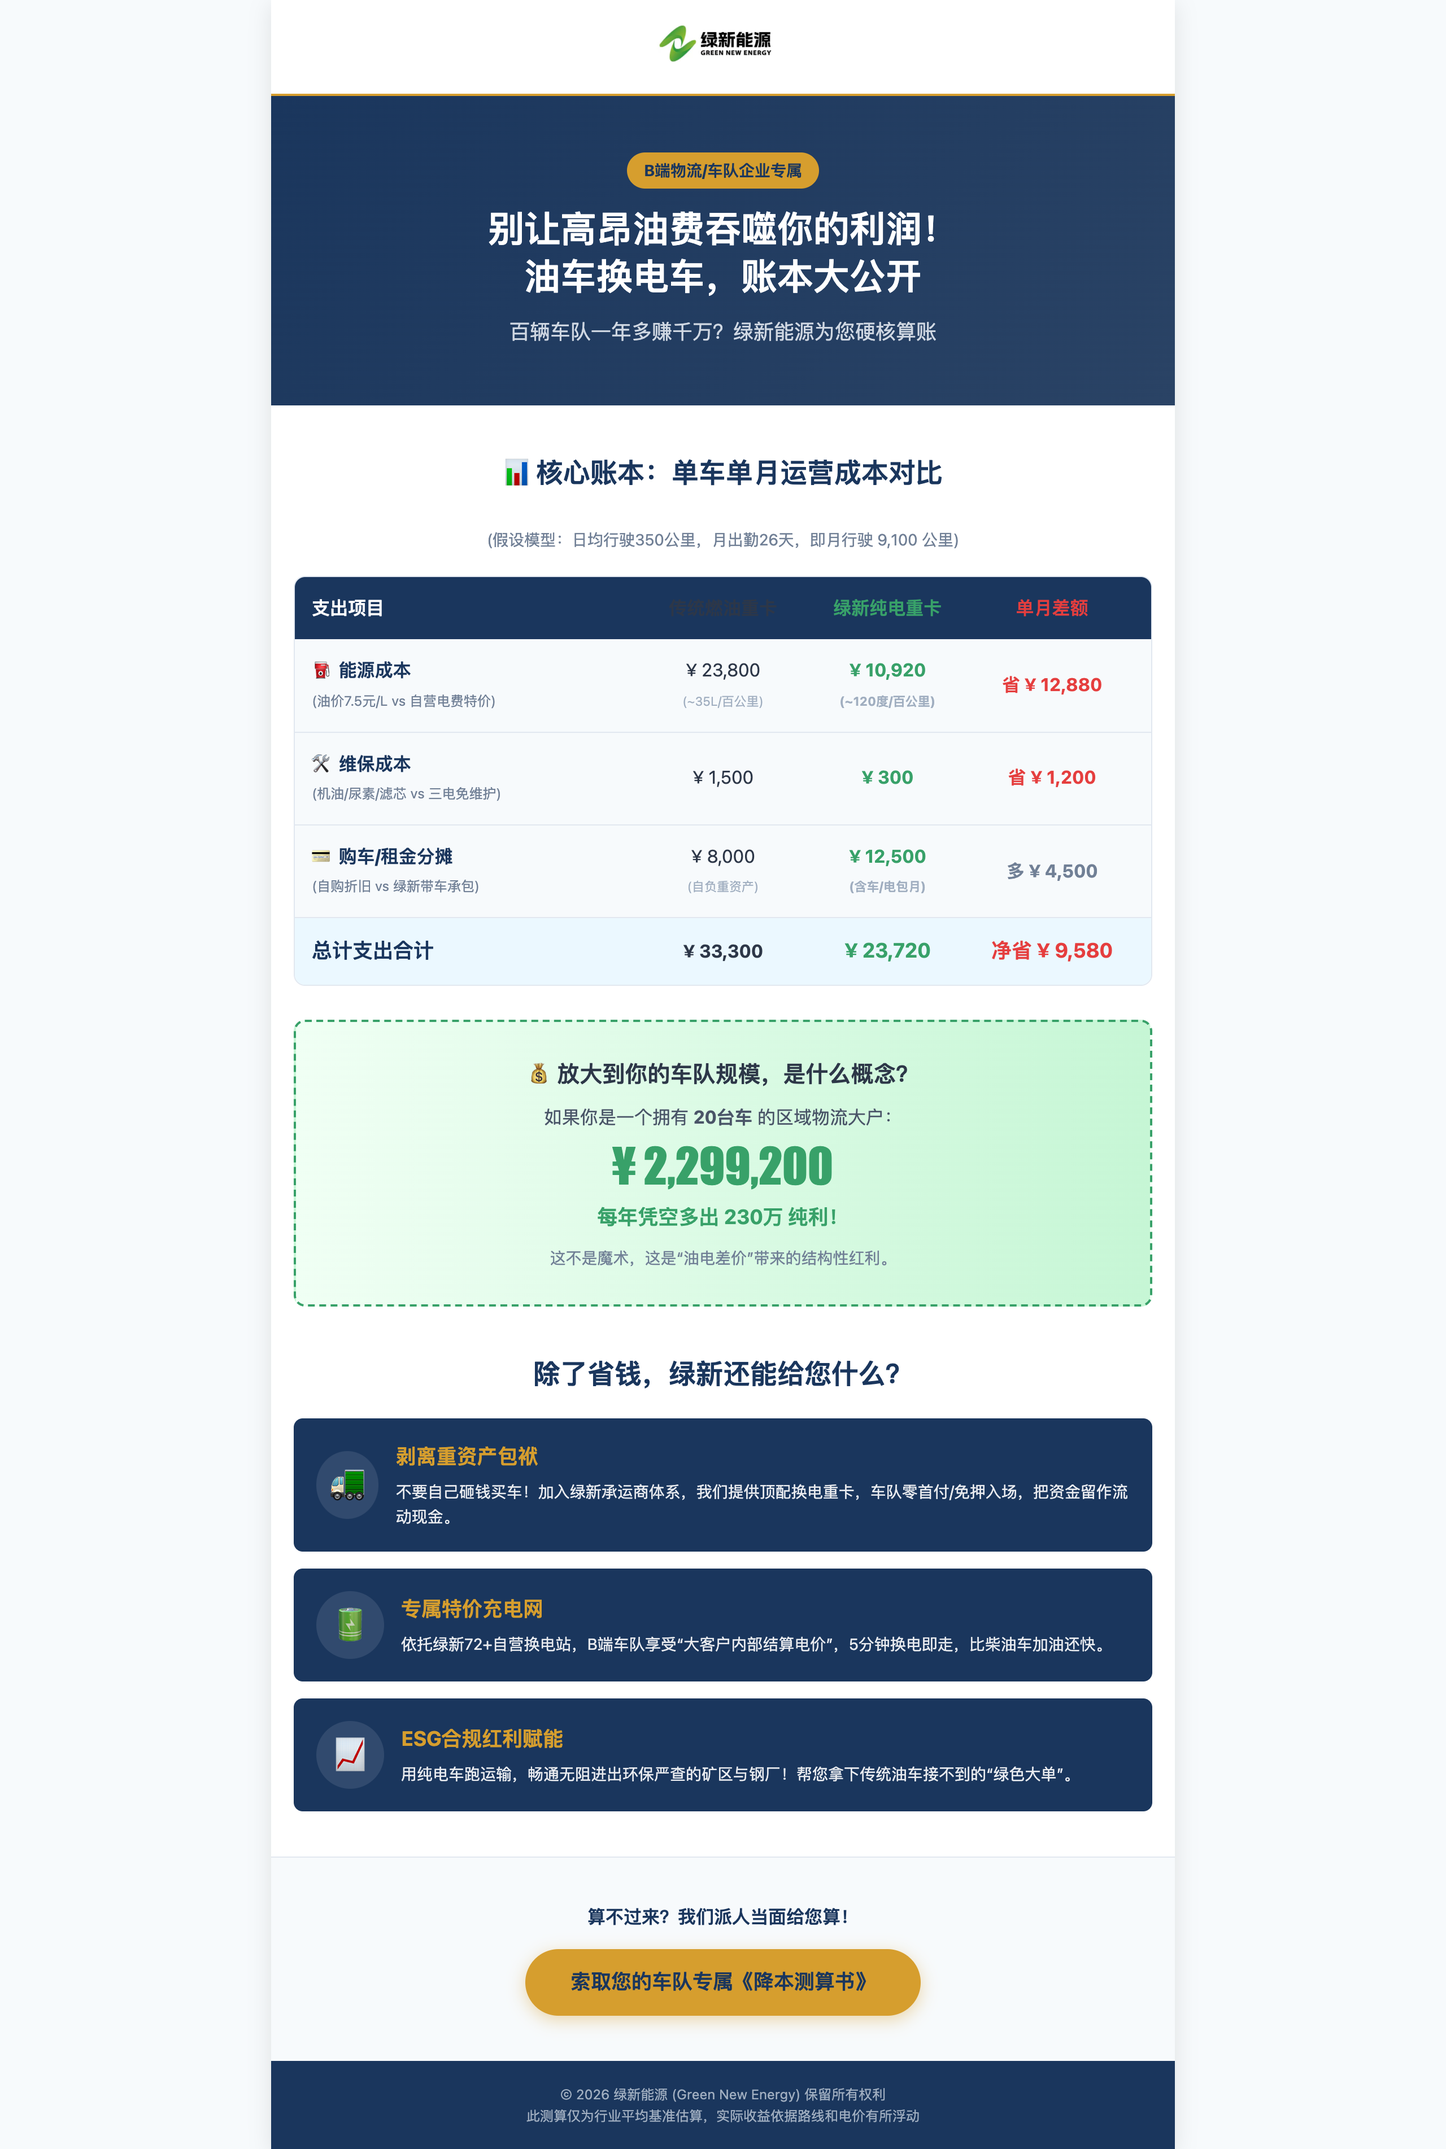
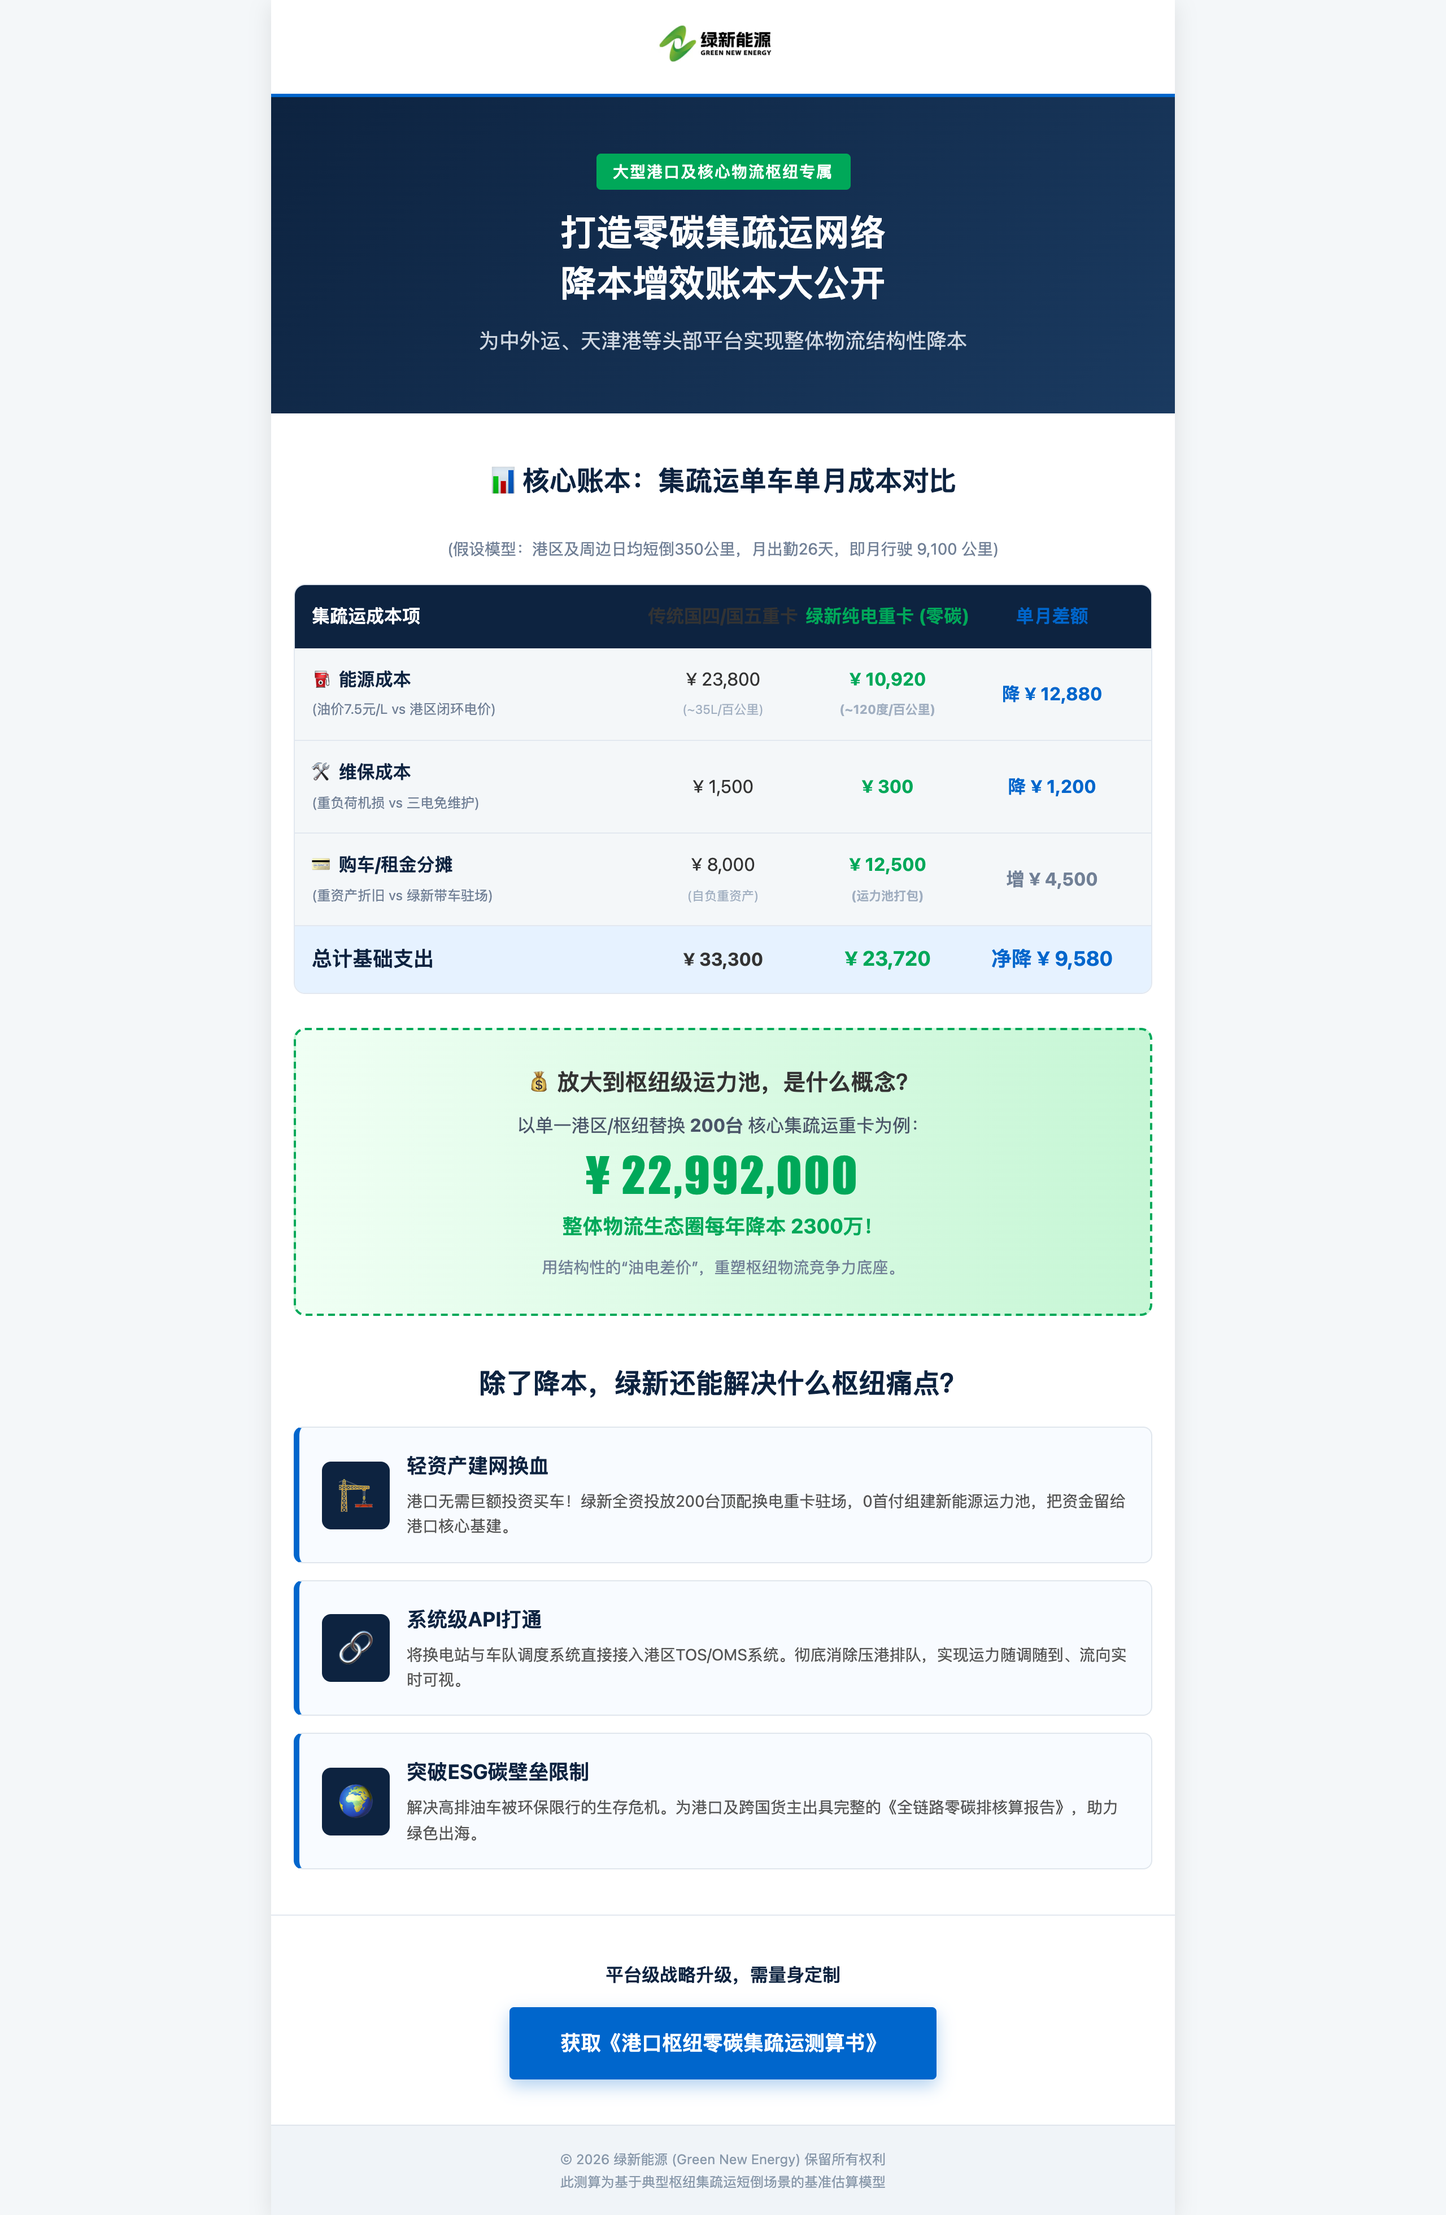
Update calculation poster to target Hubs and Ports (200 trucks scale)

diff --git a/partner_b2b_calc.html b/partner_b2b_calc.html
@@ -3,15 +3,15 @@
 <head>
     <meta charset="UTF-8">
     <meta name="viewport" content="width=device-width, initial-scale=1.0, maximum-scale=1.0, user-scalable=no">
-    <title>绿新能源 (GNE) - B端车队专属算账海报</title>
+    <title>绿新能源 (GNE) - 枢纽港口集疏运测算海报</title>
     <style>
         :root {
-            --primary-navy: #1a365d;
-            --accent-gold: #d69e2e;
-            --accent-green: #38a169;
+            --primary-navy: #0d2340;
+            --accent-gold: #0066cc;
+            --accent-green: #00a859;
             --accent-red: #e53e3e;
-            --bg-light: #f7fafc;
-            --text-main: #2d3748;
+            --bg-light: #f4f7f9;
+            --text-main: #333333;
             --white: #ffffff;
         }
         
@@ -21,18 +21,18 @@
         .container { max-width: 800px; margin: 0 auto; background: var(--white); box-shadow: 0 4px 20px rgba(0,0,0,0.1); overflow: hidden; }
         
         /* Header */
-        .header { background: var(--white); padding: 15px; text-align: center; border-bottom: 2px solid var(--accent-gold); }
+        .header { background: var(--white); padding: 15px; text-align: center; border-bottom: 3px solid var(--accent-gold); }
         .header img { max-height: 45px; }
         
         /* Hero */
         .hero { 
-            background: linear-gradient(135deg, var(--primary-navy) 0%, #2a4365 100%);
+            background: linear-gradient(135deg, var(--primary-navy) 0%, #1a3a60 100%);
             color: var(--white);
             padding: 50px 20px;
             text-align: center;
         }
-        .badge { display: inline-block; background: var(--accent-gold); color: var(--primary-navy); font-weight: bold; padding: 5px 15px; border-radius: 20px; margin-bottom: 15px; font-size: 14px; }
-        .hero h1 { font-size: 32px; margin-bottom: 15px; line-height: 1.3; }
+        .badge { display: inline-block; background: var(--accent-green); color: var(--white); font-weight: bold; padding: 5px 15px; border-radius: 4px; margin-bottom: 15px; font-size: 14px; letter-spacing: 1px;}
+        .hero h1 { font-size: 32px; margin-bottom: 15px; line-height: 1.4; font-weight: 800;}
         .hero p { font-size: 18px; opacity: 0.9; color: #e2e8f0; }
         
         /* Calc Section */
@@ -43,31 +43,31 @@
         .table-header { background: var(--primary-navy); color: var(--white); display: flex; padding: 15px; font-weight: bold; text-align: center; }
         .table-row { display: flex; padding: 15px; border-bottom: 1px solid #e2e8f0; text-align: center; align-items: center; }
         .table-row:last-child { border-bottom: none; }
-        .table-row.total { background: #ebf8ff; font-weight: bold; }
+        .table-row.total { background: #e6f2ff; font-weight: bold; }
         
         .col-item { flex: 2; text-align: left; font-weight: bold; color: var(--primary-navy); }
         .col-diesel { flex: 1; color: var(--text-main); }
         .col-ev { flex: 1; color: var(--accent-green); font-weight: bold; }
-        .col-diff { flex: 1; color: var(--accent-red); font-weight: bold; }
+        .col-diff { flex: 1; color: var(--accent-gold); font-weight: bold; }
         
         /* Visual Result */
         .result-box { background: linear-gradient(to right, #f0fff4, #c6f6d5); border: 2px dashed var(--accent-green); border-radius: 10px; padding: 30px 20px; text-align: center; margin-top: 30px; }
-        .result-box h3 { font-size: 20px; color: var(--text-main); margin-bottom: 10px; }
-        .big-number { font-size: 42px; color: var(--accent-green); font-weight: bold; line-height: 1; margin: 10px 0; font-family: Impact, sans-serif;}
+        .result-box h3 { font-size: 20px; color: var(--text-main); margin-bottom: 10px; font-weight: bold;}
+        .big-number { font-size: 42px; color: var(--accent-green); font-weight: bold; line-height: 1; margin: 10px 0; font-family: Impact, sans-serif; letter-spacing: 2px;}
         .result-desc { font-size: 16px; color: #4a5568; }
         
         /* Solution */
         .solution-grid { display: flex; flex-direction: column; gap: 15px; padding: 0 20px 40px; }
-        .sol-card { background: var(--primary-navy); color: white; padding: 20px; border-radius: 8px; display: flex; align-items: center; gap: 15px; }
-        .sol-icon { font-size: 30px; background: rgba(255,255,255,0.1); width: 60px; height: 60px; display: flex; align-items: center; justify-content: center; border-radius: 50%; }
-        .sol-text h4 { font-size: 18px; color: var(--accent-gold); margin-bottom: 5px; }
-        .sol-text p { font-size: 14px; opacity: 0.9; }
+        .sol-card { background: #f8fbff; border: 1px solid #e0e6ed; color: var(--text-main); padding: 20px; border-radius: 8px; display: flex; align-items: center; gap: 15px; border-left: 5px solid var(--accent-gold); }
+        .sol-icon { font-size: 30px; background: var(--primary-navy); color: white; width: 60px; height: 60px; display: flex; align-items: center; justify-content: center; border-radius: 8px; flex-shrink: 0; }
+        .sol-text h4 { font-size: 18px; color: var(--primary-navy); margin-bottom: 5px; font-weight: bold;}
+        .sol-text p { font-size: 14px; color: #555; }
         
         /* CTA */
-        .cta { text-align: center; padding: 40px 20px; background: var(--bg-light); border-top: 1px solid #e2e8f0; }
-        .btn { display: inline-block; background: var(--accent-gold); color: var(--primary-navy); text-decoration: none; padding: 15px 40px; border-radius: 30px; font-size: 18px; font-weight: bold; box-shadow: 0 4px 15px rgba(214,158,46,0.4); }
+        .cta { text-align: center; padding: 40px 20px; background: var(--white); border-top: 1px solid #e2e8f0; }
+        .btn { display: inline-block; background: var(--accent-gold); color: var(--white); text-decoration: none; padding: 18px 45px; border-radius: 4px; font-size: 18px; font-weight: bold; box-shadow: 0 6px 15px rgba(0,102,204,0.3); }
         
-        .footer { background: var(--primary-navy); color: #a0aec0; text-align: center; padding: 20px; font-size: 12px; }
+        .footer { background: #f0f4f8; color: #8898aa; text-align: center; padding: 20px; font-size: 12px; border-top: 1px solid #e0e6ed;}
     </style>
 </head>
 <body>
@@ -78,91 +78,91 @@
     </div>
     
     <div class="hero">
-        <span class="badge">B端物流/车队企业专属</span>
-        <h1>别让高昂油费吞噬你的利润！<br>油车换电车，账本大公开</h1>
-        <p>百辆车队一年多赚千万？绿新能源为您硬核算账</p>
+        <span class="badge">大型港口及核心物流枢纽专属</span>
+        <h1>打造零碳集疏运网络<br>降本增效账本大公开</h1>
+        <p>为中外运、天津港等头部平台实现整体物流结构性降本</p>
     </div>
     
     <div class="calc-section">
-        <h2 class="section-title">📊 核心账本：单车单月运营成本对比</h2>
-        <p style="text-align: center; margin-bottom: 20px; color: #718096; font-size: 14px;">(假设模型：日均行驶350公里，月出勤26天，即月行驶 9,100 公里)</p>
+        <h2 class="section-title">📊 核心账本：集疏运单车单月成本对比</h2>
+        <p style="text-align: center; margin-bottom: 20px; color: #718096; font-size: 14px;">(假设模型：港区及周边日均短倒350公里，月出勤26天，即月行驶 9,100 公里)</p>
         
         <div class="table-container">
             <div class="table-header">
-                <div class="col-item" style="color:white;">支出项目</div>
-                <div class="col-diesel">传统燃油重卡</div>
-                <div class="col-ev">绿新纯电重卡</div>
+                <div class="col-item" style="color:white;">集疏运成本项</div>
+                <div class="col-diesel">传统国四/国五重卡</div>
+                <div class="col-ev">绿新纯电重卡 (零碳)</div>
                 <div class="col-diff">单月差额</div>
             </div>
             <div class="table-row">
-                <div class="col-item">⛽ 能源成本<br><span style="font-size:12px; font-weight:normal; color:#718096;">(油价7.5元/L vs 自营电费特价)</span></div>
+                <div class="col-item">⛽ 能源成本<br><span style="font-size:12px; font-weight:normal; color:#718096;">(油价7.5元/L vs 港区闭环电价)</span></div>
                 <div class="col-diesel">¥ 23,800<br><span style="font-size:11px; color:#a0aec0;">(~35L/百公里)</span></div>
                 <div class="col-ev">¥ 10,920<br><span style="font-size:11px; color:#a0aec0;">(~120度/百公里)</span></div>
-                <div class="col-diff">省 ¥ 12,880</div>
+                <div class="col-diff">降 ¥ 12,880</div>
             </div>
             <div class="table-row">
-                <div class="col-item">🛠 维保成本<br><span style="font-size:12px; font-weight:normal; color:#718096;">(机油/尿素/滤芯 vs 三电免维护)</span></div>
+                <div class="col-item">🛠 维保成本<br><span style="font-size:12px; font-weight:normal; color:#718096;">(重负荷机损 vs 三电免维护)</span></div>
                 <div class="col-diesel">¥ 1,500</div>
                 <div class="col-ev">¥ 300</div>
-                <div class="col-diff">省 ¥ 1,200</div>
+                <div class="col-diff">降 ¥ 1,200</div>
             </div>
             <div class="table-row">
-                <div class="col-item">💳 购车/租金分摊<br><span style="font-size:12px; font-weight:normal; color:#718096;">(自购折旧 vs 绿新带车承包)</span></div>
+                <div class="col-item">💳 购车/租金分摊<br><span style="font-size:12px; font-weight:normal; color:#718096;">(重资产折旧 vs 绿新带车驻场)</span></div>
                 <div class="col-diesel">¥ 8,000<br><span style="font-size:11px; color:#a0aec0;">(自负重资产)</span></div>
-                <div class="col-ev">¥ 12,500<br><span style="font-size:11px; color:#a0aec0;">(含车/电包月)</span></div>
-                <div class="col-diff" style="color:#718096;">多 ¥ 4,500</div>
+                <div class="col-ev">¥ 12,500<br><span style="font-size:11px; color:#a0aec0;">(运力池打包)</span></div>
+                <div class="col-diff" style="color:#718096;">增 ¥ 4,500</div>
             </div>
             <div class="table-row total">
-                <div class="col-item" style="color:var(--primary-navy); font-size:18px;">总计支出合计</div>
+                <div class="col-item" style="color:var(--primary-navy); font-size:18px;">总计基础支出</div>
                 <div class="col-diesel" style="font-weight:bold;">¥ 33,300</div>
                 <div class="col-ev" style="font-size:18px;">¥ 23,720</div>
-                <div class="col-diff" style="font-size:18px;">净省 ¥ 9,580</div>
+                <div class="col-diff" style="font-size:18px;">净降 ¥ 9,580</div>
             </div>
         </div>
         
         <div class="result-box">
-            <h3>💰 放大到你的车队规模，是什么概念？</h3>
-            <p class="result-desc">如果你是一个拥有 <strong>20台车</strong> 的区域物流大户：</p>
-            <div class="big-number">¥ 2,299,200</div>
-            <p style="color: var(--accent-green); font-weight: bold; font-size: 18px;">每年凭空多出 230万 纯利！</p>
-            <p style="margin-top: 10px; font-size: 14px; color: #718096;">这不是魔术，这是“油电差价”带来的结构性红利。</p>
+            <h3>💰 放大到枢纽级运力池，是什么概念？</h3>
+            <p class="result-desc">以单一港区/枢纽替换 <strong>200台</strong> 核心集疏运重卡为例：</p>
+            <div class="big-number">¥ 22,992,000</div>
+            <p style="color: var(--accent-green); font-weight: bold; font-size: 18px;">整体物流生态圈每年降本 2300万！</p>
+            <p style="margin-top: 10px; font-size: 14px; color: #718096;">用结构性的“油电差价”，重塑枢纽物流竞争力底座。</p>
         </div>
     </div>
     
-    <h2 class="section-title" style="margin-bottom: 20px;">除了省钱，绿新还能给您什么？</h2>
+    <h2 class="section-title" style="margin-bottom: 20px;">除了降本，绿新还能解决什么枢纽痛点？</h2>
     
     <div class="solution-grid">
         <div class="sol-card">
-            <div class="sol-icon">🚛</div>
+            <div class="sol-icon">🏗</div>
             <div class="sol-text">
-                <h4>剥离重资产包袱</h4>
-                <p>不要自己砸钱买车！加入绿新承运商体系，我们提供顶配换电重卡，车队零首付/免押入场，把资金留作流动现金。</p>
+                <h4>轻资产建网换血</h4>
+                <p>港口无需巨额投资买车！绿新全资投放200台顶配换电重卡驻场，0首付组建新能源运力池，把资金留给港口核心基建。</p>
             </div>
         </div>
         <div class="sol-card">
-            <div class="sol-icon">🔋</div>
+            <div class="sol-icon">🔗</div>
             <div class="sol-text">
-                <h4>专属特价充电网</h4>
-                <p>依托绿新72+自营换电站，B端车队享受“大客户内部结算电价”，5分钟换电即走，比柴油车加油还快。</p>
+                <h4>系统级API打通</h4>
+                <p>将换电站与车队调度系统直接接入港区TOS/OMS系统。彻底消除压港排队，实现运力随调随到、流向实时可视。</p>
             </div>
         </div>
         <div class="sol-card">
-            <div class="sol-icon">📈</div>
+            <div class="sol-icon">🌍</div>
             <div class="sol-text">
-                <h4>ESG合规红利赋能</h4>
-                <p>用纯电车跑运输，畅通无阻进出环保严查的矿区与钢厂！帮您拿下传统油车接不到的“绿色大单”。</p>
+                <h4>突破ESG碳壁垒限制</h4>
+                <p>解决高排油车被环保限行的生存危机。为港口及跨国货主出具完整的《全链路零碳排核算报告》，助力绿色出海。</p>
             </div>
         </div>
     </div>
     
     <div class="cta">
-        <p style="margin-bottom: 15px; color: var(--primary-navy); font-weight: bold;">算不过来？我们派人当面给您算！</p>
-        <a href="tel:400-XXX-XXXX" class="btn">索取您的车队专属《降本测算书》</a>
+        <p style="margin-bottom: 15px; color: var(--primary-navy); font-weight: bold;">平台级战略升级，需量身定制</p>
+        <a href="tel:400-XXX-XXXX" class="btn">获取《港口枢纽零碳集疏运测算书》</a>
     </div>
     
     <div class="footer">
         <p>&copy; 2026 绿新能源 (Green New Energy) 保留所有权利</p>
-        <p>此测算仅为行业平均基准估算，实际收益依据路线和电价有所浮动</p>
+        <p>此测算为基于典型枢纽集疏运短倒场景的基准估算模型</p>
     </div>
 </div>
 
